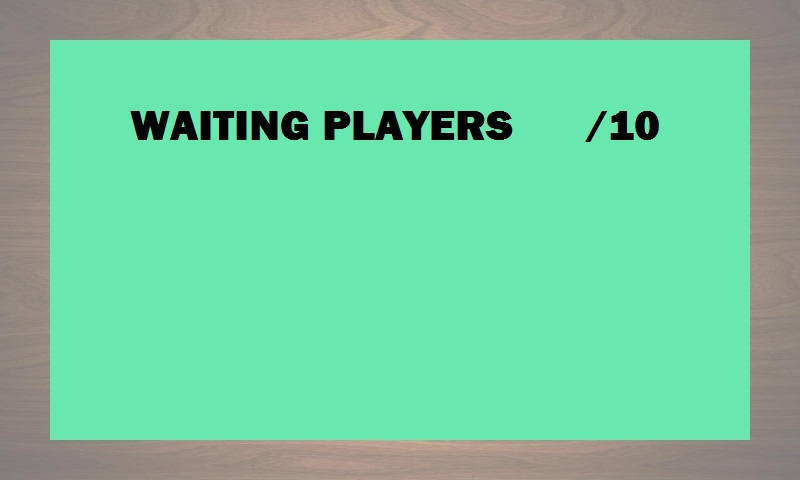
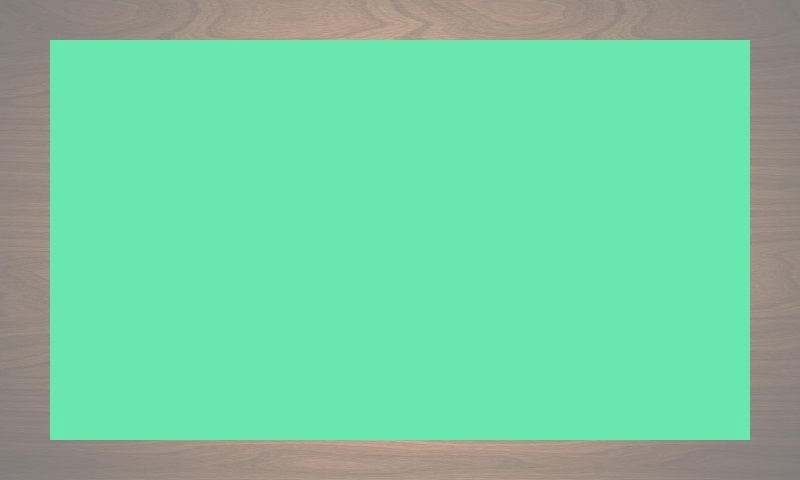
Menus changes

Changed region(s): [[0.1562, 0.2188, 0.6562, 0.3125], [0.7188, 0.2188, 0.8438, 0.3125]]

diff --git a/core/src/com/lpoo/gameinterface/states/LobbyState.java b/core/src/com/lpoo/gameinterface/states/LobbyState.java
@@ -6,6 +6,8 @@ import com.badlogic.gdx.graphics.g2d.Sprite;
 import com.badlogic.gdx.graphics.g2d.SpriteBatch;
 import com.badlogic.gdx.scenes.scene2d.Stage;
 import com.badlogic.gdx.scenes.scene2d.ui.Button;
+import com.badlogic.gdx.scenes.scene2d.ui.Skin;
+import com.badlogic.gdx.scenes.scene2d.ui.TextField;
 import com.badlogic.gdx.scenes.scene2d.utils.SpriteDrawable;
 import com.lpoo.gamelogic.Player;
 
@@ -29,48 +31,49 @@ public class LobbyState extends State{
 
     private Texture background;
 
-    private Button createBtn;
-    private Button joinBtn;
+    private Button joinServerBtn;
     private Button backBtn;
 
-    private Sprite createSprite;
-    private Sprite joinSprite;
+    private Sprite joinServerSprite;
     private Sprite backSprite;
+
+    private TextField ip;
+    private Skin skin;
 
     public LobbyState(GameStateManager gsm, State state) {
         super(gsm, state);
         background = new Texture("gamelobby.png");
 
-        createSprite = new Sprite(new Texture("createroom.png"));
-        joinSprite = new Sprite(new Texture("joinroom.png"));
+        joinServerSprite = new Sprite(new Texture("joinserver.png"));
         backSprite = new Sprite(new Texture("back.png"));
 
-        createBtn = new Button(new SpriteDrawable(createSprite));
-        createBtn.setSize(Gdx.graphics.getWidth() * 2 / 5, Gdx.graphics.getHeight() * 43 / 500);
-        createBtn.setX(Gdx.graphics.getWidth()*11/20);
-        createBtn.setY(Gdx.graphics.getHeight() * 1 / 5);
+        joinServerBtn = new Button(new SpriteDrawable(joinServerSprite));
+        joinServerBtn.setSize(Gdx.graphics.getWidth()*1/2,Gdx.graphics.getHeight()*2/7);
+        joinServerBtn.setX(Gdx.graphics.getWidth()*3/4-joinServerBtn.getWidth()/2);
+        joinServerBtn.setY(Gdx.graphics.getHeight()/2);
 
-        joinBtn = new Button(new SpriteDrawable(joinSprite));
-        joinBtn.setSize(Gdx.graphics.getWidth() * 2 / 5, Gdx.graphics.getHeight() * 43 / 500);
-        joinBtn.setX(Gdx.graphics.getWidth()*11/20);
-        joinBtn.setY(Gdx.graphics.getHeight() * 57 / 500);
 
         backBtn = new Button(new SpriteDrawable(backSprite));
-        backBtn.setSize(Gdx.graphics.getWidth() * 2 / 5, Gdx.graphics.getHeight() * 43 / 500);
-        backBtn.setX(Gdx.graphics.getWidth()*11/20);
-        backBtn.setY(Gdx.graphics.getHeight() * 29 / 1000);
+        backBtn.setSize(Gdx.graphics.getWidth()*1/2,Gdx.graphics.getHeight()*2/7);
+        backBtn.setX(Gdx.graphics.getWidth()*3/4-backBtn.getWidth()/2);
+        backBtn.setY(Gdx.graphics.getHeight()*1/12);
+
+        skin = new Skin(Gdx.files.internal("uiskin.json"));
+        ip = new TextField("",skin);
+        ip.setMessageText("Enter your IP here!");
+        ip.setSize(Gdx.graphics.getWidth()*5/11,Gdx.graphics.getHeight()*1/8);
+        ip.setPosition(Gdx.graphics.getWidth()*3/4-ip.getWidth()/2, Gdx.graphics.getHeight()*10/12);
 
         stage = new Stage();
         Gdx.input.setInputProcessor(stage);
-        stage.addActor(createBtn);
-        stage.addActor(joinBtn);
+        stage.addActor(joinServerBtn);
         stage.addActor(backBtn);
 
     }
 
     @Override
     public void handleInput() {
-        if(createBtn.isPressed()){
+        if(joinServerBtn.isPressed()){
             connectSocket();
             configSocketEvents();
             try {
@@ -96,9 +99,9 @@ public class LobbyState extends State{
     public void render(SpriteBatch sb) {
         sb.begin();
         sb.draw(background, 0,0, Gdx.graphics.getWidth(), Gdx.graphics.getHeight());
-        createBtn.draw(sb, 1);
-        joinBtn.draw(sb, 1);
+        joinServerBtn.draw(sb, 1);
         backBtn.draw(sb,1);
+        ip.draw(sb,1);
         sb.end();
     }
 
@@ -106,9 +109,8 @@ public class LobbyState extends State{
     public void dispose() {
 
         background.dispose();
-        createSprite.getTexture().dispose();
+        joinServerSprite.getTexture().dispose();
         backSprite.getTexture().dispose();
-        joinSprite.getTexture().dispose();
 
     }
 

diff --git a/core/src/com/lpoo/gameinterface/states/MenuState.java b/core/src/com/lpoo/gameinterface/states/MenuState.java
@@ -37,20 +37,20 @@ public class MenuState extends State{
         skin = new Skin(Gdx.files.internal("uiskin.json"));
         name = new TextField("",skin);
         name.setMessageText("Enter your name here!");
-        name.setSize(Gdx.graphics.getWidth()*1/2,Gdx.graphics.getHeight()*1/16);
-        name.setPosition(Gdx.graphics.getWidth()*1/12, Gdx.graphics.getHeight()*5/12);
+        name.setSize(Gdx.graphics.getWidth()*5/11,Gdx.graphics.getHeight()*1/8);
+        name.setPosition(Gdx.graphics.getWidth()*3/4-name.getWidth()/2, Gdx.graphics.getHeight()*10/12);
 
 
         createJoinSprite = new Sprite(new Texture("createjoinroom.png"));
         exitSprite = new Sprite(new Texture("exit.png"));
         createJoinBtn = new Button(new SpriteDrawable(createJoinSprite));
-        createJoinBtn.setSize(Gdx.graphics.getWidth()*1/2,Gdx.graphics.getHeight()*1/8);
-        createJoinBtn.setX(Gdx.graphics.getWidth()*1/12);
-        createJoinBtn.setY(Gdx.graphics.getHeight()*3/12);
+        createJoinBtn.setSize(Gdx.graphics.getWidth()*1/2,Gdx.graphics.getHeight()*2/7);
+        createJoinBtn.setX(Gdx.graphics.getWidth()*3/4-createJoinBtn.getWidth()/2);
+        createJoinBtn.setY(Gdx.graphics.getHeight()/2);
 
         exitBtn = new Button(new SpriteDrawable(exitSprite));
-        exitBtn.setSize(Gdx.graphics.getWidth()*1/2,Gdx.graphics.getHeight()*1/8);
-        exitBtn.setX(Gdx.graphics.getWidth()*1/12);
+        exitBtn.setSize(Gdx.graphics.getWidth()*1/2,Gdx.graphics.getHeight()*2/7);
+        exitBtn.setX(Gdx.graphics.getWidth()*3/4-exitBtn.getWidth()/2);
         exitBtn.setY(Gdx.graphics.getHeight()*1/12);
 
 

diff --git a/core/src/com/lpoo/gameinterface/states/WaitingState.java b/core/src/com/lpoo/gameinterface/states/WaitingState.java
@@ -1,6 +1,7 @@
 package com.lpoo.gameinterface.states;
 
 import com.badlogic.gdx.Gdx;
+import com.badlogic.gdx.graphics.Color;
 import com.badlogic.gdx.graphics.Texture;
 import com.badlogic.gdx.graphics.g2d.Sprite;
 import com.badlogic.gdx.graphics.g2d.SpriteBatch;
@@ -28,9 +29,10 @@ public class WaitingState extends State {
         background = new Texture("waitingstate.jpg");
 
         Skin skin = new Skin(Gdx.files.internal("uiskin.json"));
-        label = new Label(Integer.toString(allPlayers.size()), skin);
-        label.setFontScale(5);
-        label.setPosition(Gdx.graphics.getWidth() * 553 / 800, Gdx.graphics.getHeight() * 345 / 480);
+        label = new Label("WAITING FOR PLAYERS...  " + allPlayers.size() + "/10", skin);
+        label.setFontScale(6);
+        label.setColor(Color.BLACK);
+        label.setPosition(Gdx.graphics.getWidth()/8, Gdx.graphics.getHeight() * 350 / 480);
 
         startSprite = new Sprite(new Texture("start.png"));
         startBtn = new Button(new SpriteDrawable(startSprite));
@@ -68,7 +70,7 @@ public class WaitingState extends State {
 
     @Override
     public void render(SpriteBatch sb) {
-        label.setText(Integer.toString(allPlayers.size()));
+        label.setText("WAITING FOR PLAYERS...  " + allPlayers.size() + "/10");
         sb.begin();
         sb.draw(background, 0, 0, Gdx.graphics.getWidth(), Gdx.graphics.getHeight());
         if(me.getPosition() == 0 && allPlayers.size() > 4)
